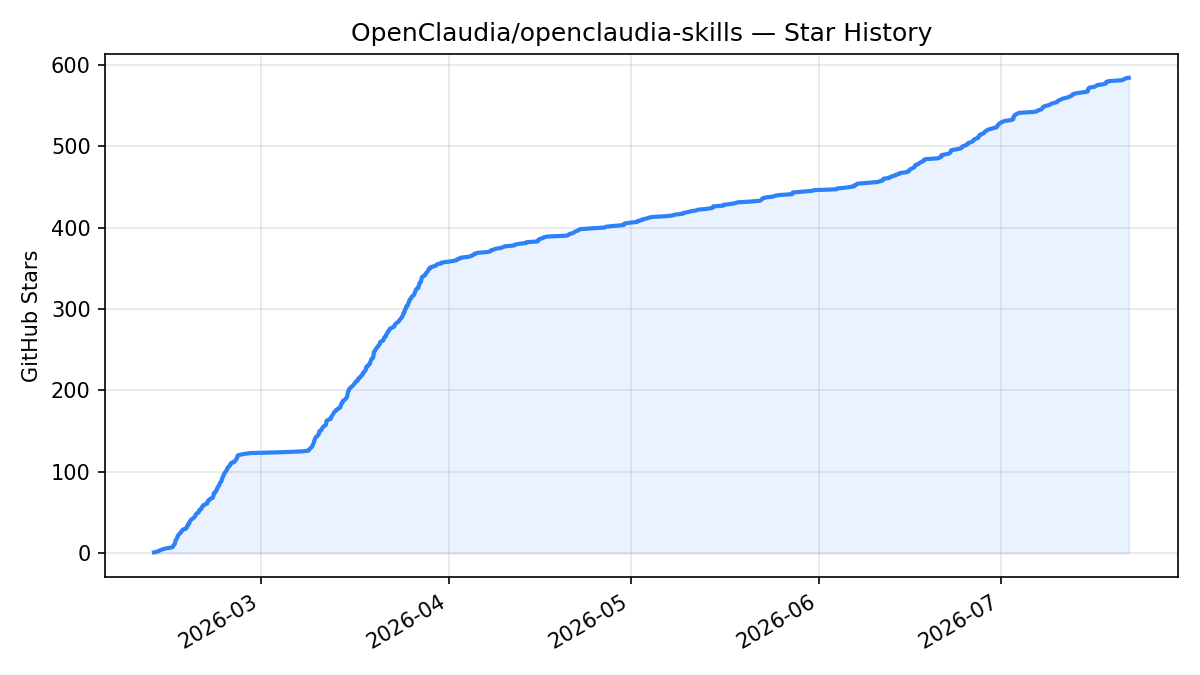
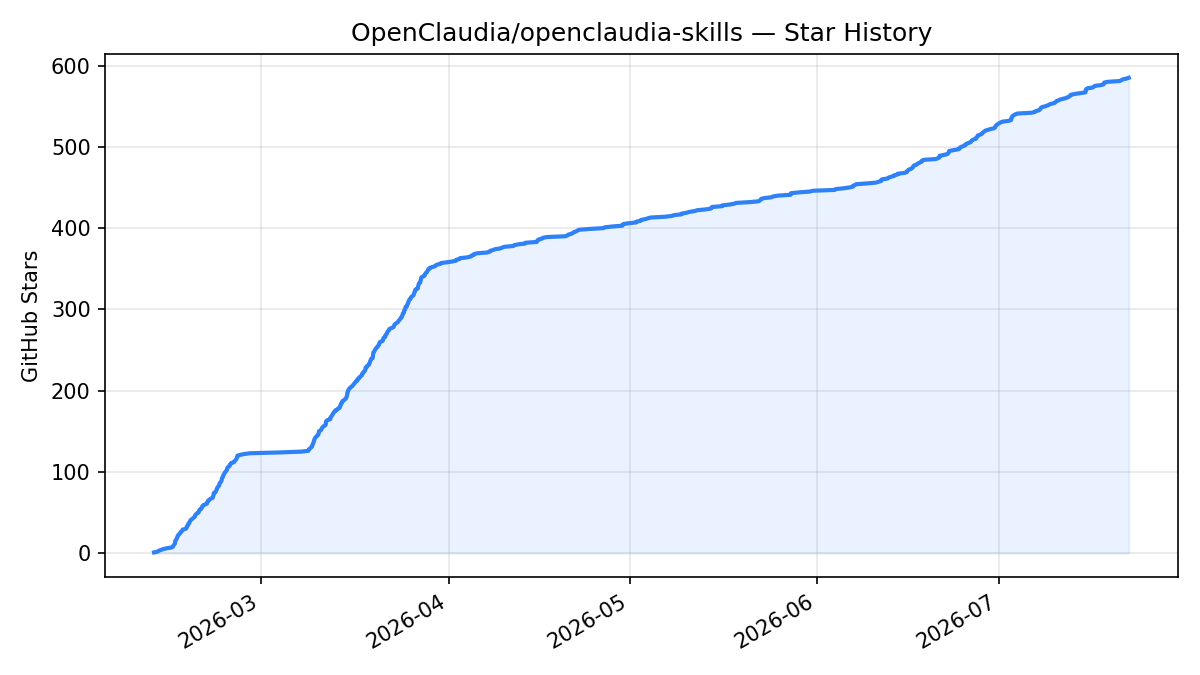
readme: refresh star chart (585 stars)

diff --git a/README.md b/README.md
@@ -327,7 +327,7 @@ MIT — see [LICENSE](LICENSE)
 
 ![Star History Chart](assets/star-history.png)
 
-<sub>Updated 2026-07-21. GitHub [restricted the stargazers API](https://github.blog/changelog/2026-06-30-upcoming-access-restrictions-to-public-api-endpoints-and-ui-views/) in June 2026, so the live star-history.com badge no longer renders; this chart is generated from the repo's own star data.</sub>
+<sub>Updated 2026-07-22. GitHub [restricted the stargazers API](https://github.blog/changelog/2026-06-30-upcoming-access-restrictions-to-public-api-endpoints-and-ui-views/) in June 2026, so the live star-history.com badge no longer renders; this chart is generated from the repo's own star data.</sub>
 
 ---
 